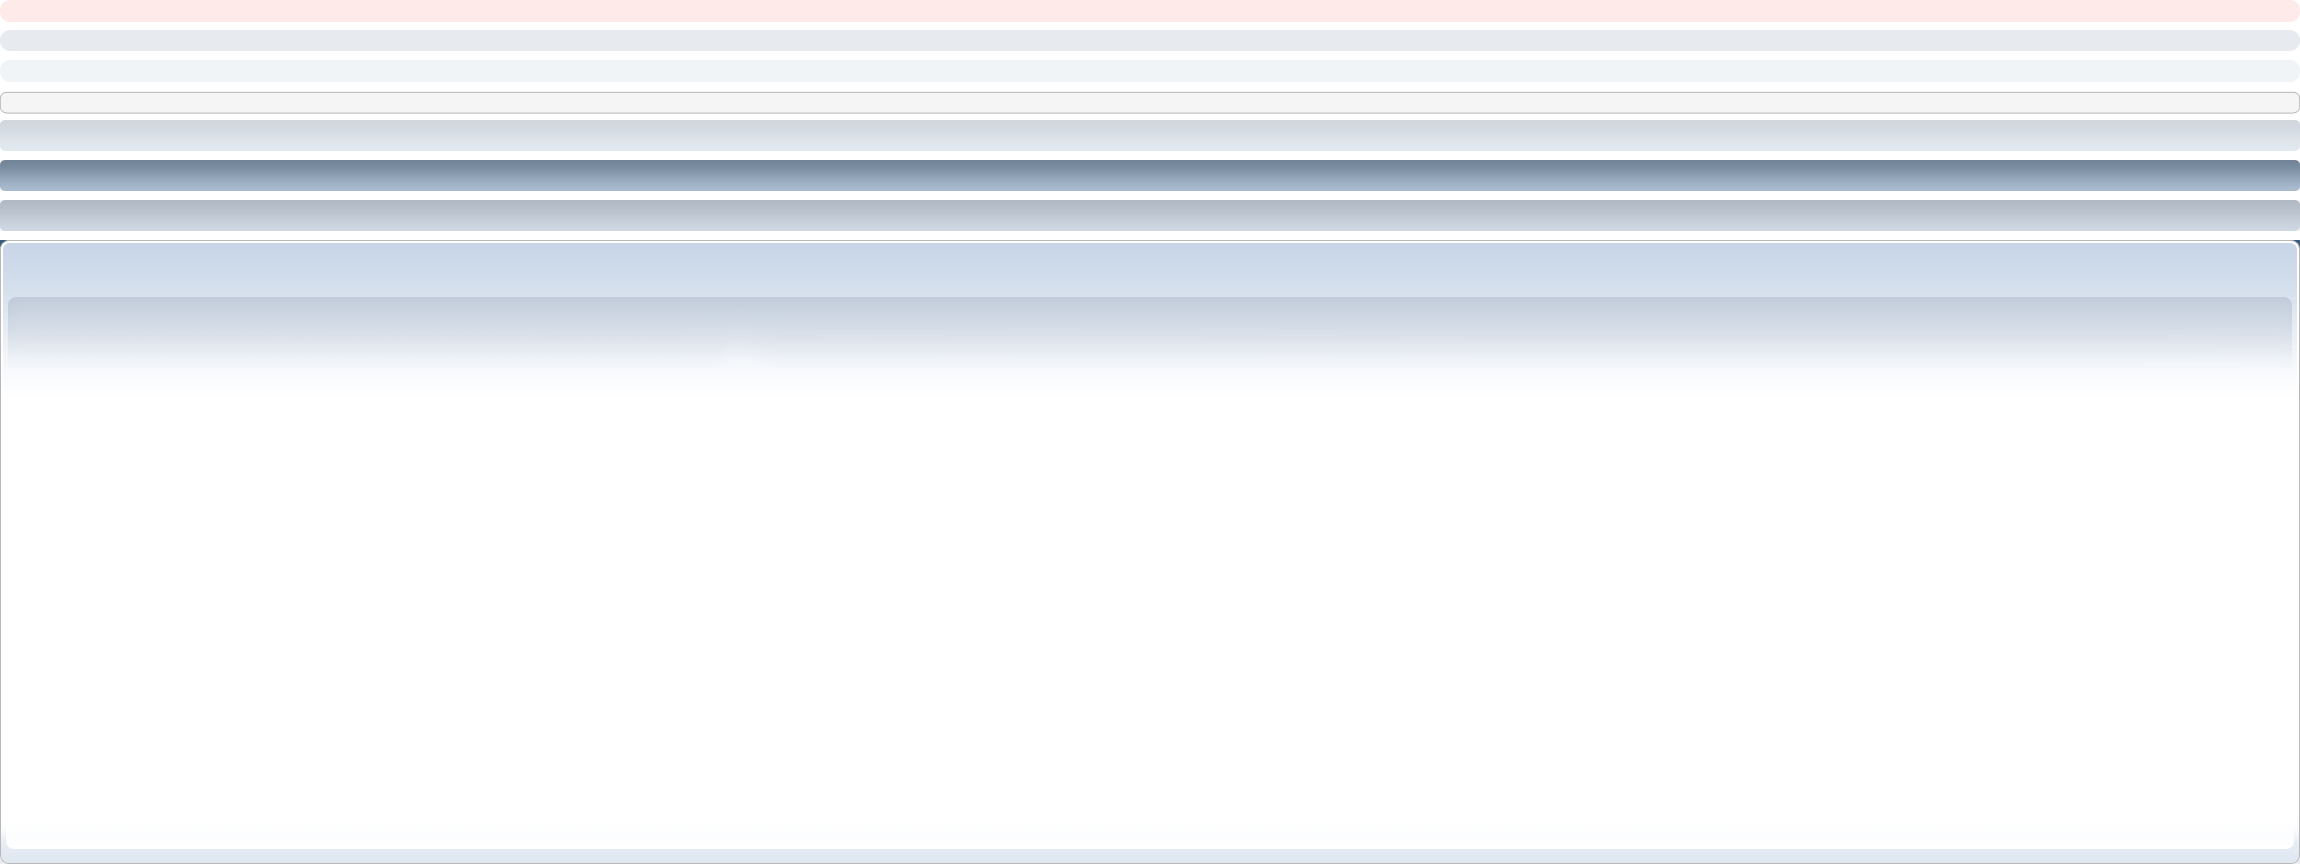
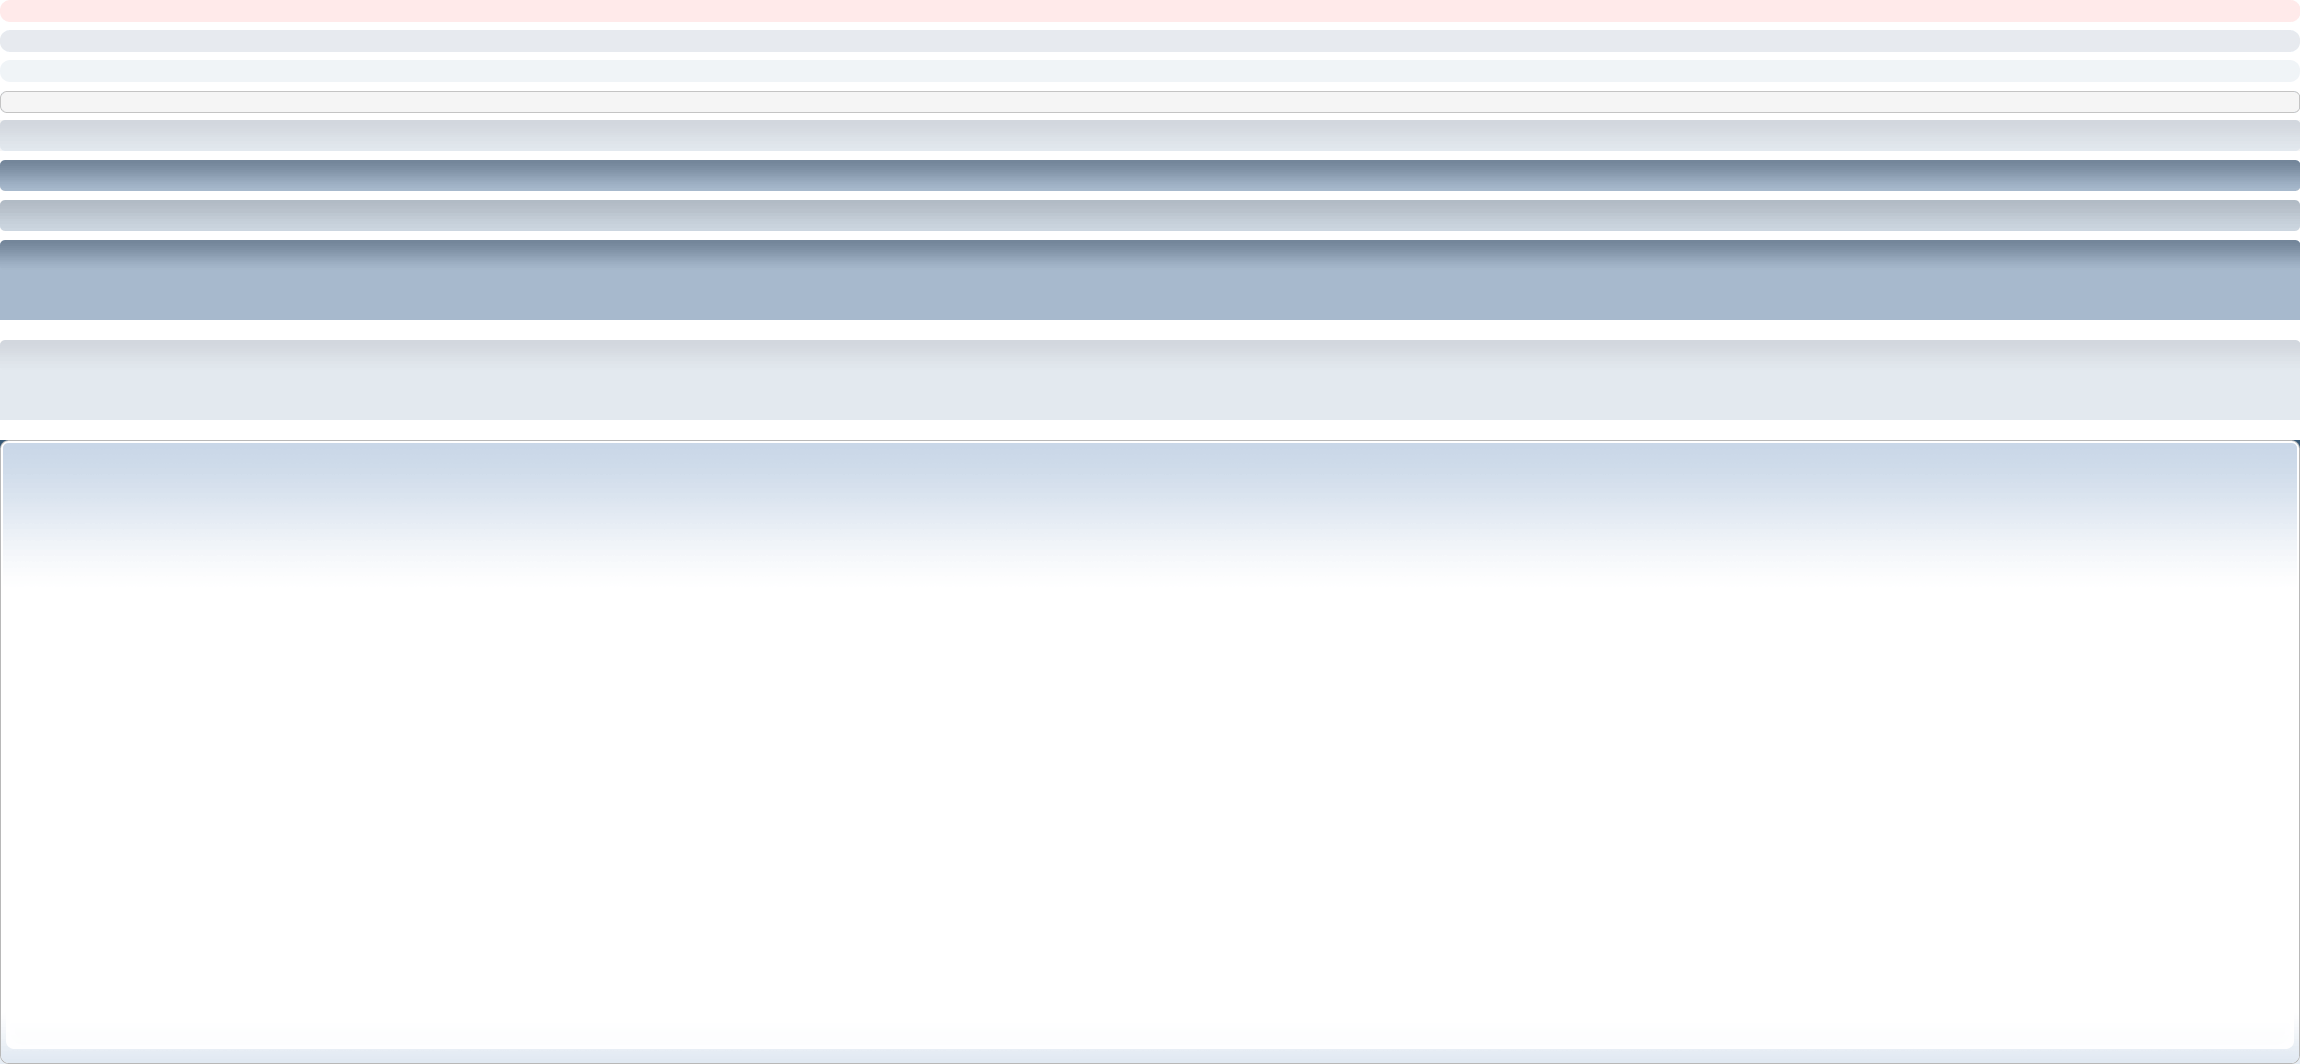
Fix for table headers breaking sometimes (main_block.png, index.css) [Bug 3716]
git-svn-id: https://devel.simplemachines.org/code/smf/trunk@10008 a96bbafc-d752-43aa-a6db-eed64a5f2cf9

Changed region(s): [[0.0, 0.0938, 1.0, 0.5]]

diff --git a/Themes/default/css/index.css b/Themes/default/css/index.css
@@ -406,7 +406,7 @@ code.bbc_code
 	font-family: arial, helvetica, sans-serif;
 	font-size: 1.1em;
 	font-weight: bold;
-	background: url(../images/theme/main_block.png) no-repeat -10px -120px;
+	background: url(../images/theme/main_block.png) no-repeat -10px -340px;
 }
 .catbg, .catbg2, tr.catbg td, tr.catbg2 td, tr.catbg th, tr.catbg2 th
 {
@@ -414,7 +414,7 @@ code.bbc_code
 	font-family: arial, helvetica, sans-serif;
 	font-size: 1.1em;
 	font-weight: bold;
-	background: url(../images/theme/main_block.png) no-repeat -10px -160px;
+	background: url(../images/theme/main_block.png) no-repeat -10px -240px;
 }
 
 /* adjust the table versions of headers */
@@ -869,7 +869,7 @@ table.table_list a.collapse
 	font-family: arial, helvetica, sans-serif;
 	font-size: 1.1em;
 	font-weight: bold;
-	background: url(../images/theme/main_block.png) no-repeat -10px -160px;
+	background: url(../images/theme/main_block.png) no-repeat -10px -240px;
 }
 .table_grid th a:link, .table_grid th a:visited
 {
@@ -877,11 +877,11 @@ table.table_list a.collapse
 }
 .table_grid th.first_th
 {
-	background: url(../images/theme/main_block.png) no-repeat 0 -160px;
+	background: #A8BACE url(../images/theme/main_block.png) no-repeat 0 -240px;
 }
 .table_grid th.last_th
 {
-	background: url(../images/theme/main_block.png) no-repeat 100% -160px;
+	background: #A8BACE url(../images/theme/main_block.png) no-repeat 100% -240px;
 }
 .table_grid th.last_th input
 {
@@ -1297,12 +1297,12 @@ ul#navigation li
 /* the framing graphics */
 #header
 {
-	background: url(../images/theme/main_block.png) #fefefe no-repeat 0 -240px;
+	background: url(../images/theme/main_block.png) #fefefe no-repeat 0 -440px;
 	padding-left: 20px;
 }
 #header div.frame
 {
-	background: url(../images/theme/main_block.png) no-repeat 100% -240px;
+	background: url(../images/theme/main_block.png) no-repeat 100% -440px;
 	display: block;
 	padding: 5px 20px 0 0;
 }
@@ -1453,7 +1453,7 @@ div#upper_section div.news form
 #footer_section
 {
 	text-align: center;
-	background: url(../images/theme/main_block.png) no-repeat 0 -820px;
+	background: url(../images/theme/main_block.png) no-repeat 0 -1020px;
 	padding-left: 20px;
 }
 #footer_section span.smalltext
@@ -1462,7 +1462,7 @@ div#upper_section div.news form
 }
 #footer_section div.frame
 {
-	background: url(../images/theme/main_block.png) no-repeat 100% -820px;
+	background: url(../images/theme/main_block.png) no-repeat 100% -1020px;
 	display: block;
 	padding: 60px 0 0 0;
 }
